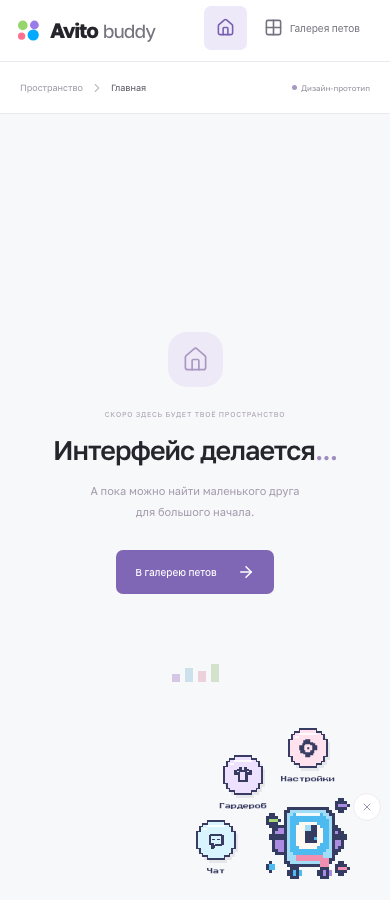
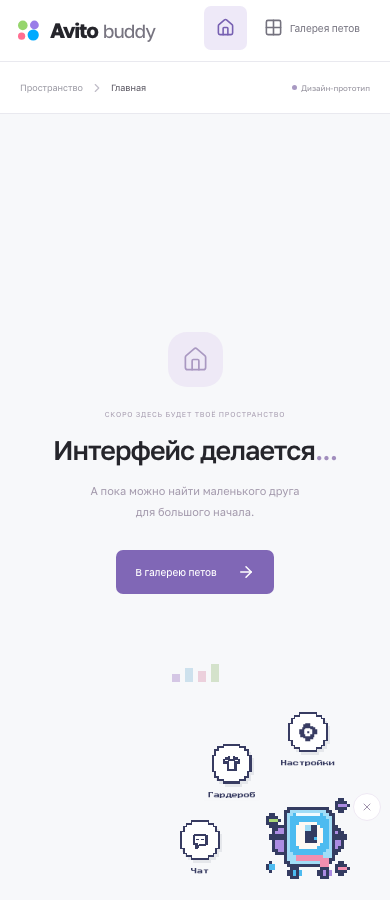
Use white action circles and increase orbit spacing

Changed region(s): [[0.4615, 0.8089, 0.6769, 0.9956], [0.7077, 0.7778, 0.8615, 0.8711]]

diff --git a/frontend/src/widgets/pet-companion/ui/companion-orbit-menu.tsx b/frontend/src/widgets/pet-companion/ui/companion-orbit-menu.tsx
@@ -4,10 +4,10 @@ import { useOrbitPlacement } from "../model/use-orbit-placement";
 import { PixelActionIcon } from "./pixel-action-icon";
 import type { CompanionAction } from "./pixel-action-icon";
 
-const actions: { id: CompanionAction; label: string; color: string }[] = [
-  { id: "chat", label: "Чат", color: "#d8f4ff" },
-  { id: "wardrobe", label: "Гардероб", color: "#eee1ff" },
-  { id: "settings", label: "Настройки", color: "#ffe2ed" },
+const actions: { id: CompanionAction; label: string }[] = [
+  { id: "chat", label: "Чат" },
+  { id: "wardrobe", label: "Гардероб" },
+  { id: "settings", label: "Настройки" },
 ];
 const outline = "M16 0h24v4h8v4h4v8h4v24h-4v8h-4v4h-8v4H16v-4H8v-4H4v-8H0V16h4V8h4V4h8z";
 
@@ -44,8 +44,7 @@ export function CompanionOrbitMenu({ anchor, position, open, onAction }: {
             <svg className="orbit-disc absolute inset-0 size-full overflow-visible [filter:drop-shadow(2px_3px_0_#383c6218)]"
               viewBox="0 0 56 56" shapeRendering="crispEdges" aria-hidden="true">
               <path d={outline} fill="#383c62" />
-              <path d={outline} transform="translate(3 3) scale(.892857)" fill={action.color} />
-              <path d="M16 7h24v3H16z M10 11h5v3h-5z" fill="#ffffff" fillOpacity=".85" />
+              <path d={outline} transform="translate(3 3) scale(.892857)" fill="#ffffff" />
             </svg>
             <span className="relative"><PixelActionIcon action={action.id} /></span>
           </span>

diff --git a/frontend/src/widgets/pet-companion/model/use-orbit-placement.ts b/frontend/src/widgets/pet-companion/model/use-orbit-placement.ts
@@ -15,7 +15,7 @@ export function useOrbitPlacement(
       const box = anchor.current.getBoundingClientRect();
       const compact = window.innerWidth <= 650;
       const size = compact ? 40 : 44;
-      const radius = compact ? 92 : 104;
+      const radius = compact ? 108 : 120;
       const cx = box.left + box.width / 2;
       const cy = box.top + box.height / 2;
       const horizontal = cx >= window.innerWidth / 2 ? -1 : 1;

diff --git a/CONTEXT.md b/CONTEXT.md
@@ -267,3 +267,10 @@
 - Пользователь сообщил, что по клику кружки не появляются. Ошибка воспроизведена: при наличии buddy-position меню получало aria-expanded=true, но содержало 0 кнопок; без сохранённой позиции — 3.
 - Причина: layout-эффект дочернего меню выполнялся до присвоения ref родительскому DOM. При восстановленных координатах x/y не менялись и повторного расчёта не было. Измерение в useOrbitPlacement перенесено в useEffect, когда ref уже доступен. Сохранённая позиция не сбрасывается.
 - Регрессионный сценарий теперь заранее сохраняет позицию и проверяет все три кнопки до/после перезагрузки. Playwright прошёл 1440/390/320 px с кликами, тапами, Enter, действиями, drag и reduced motion; отдельно подтверждены варианты с/без buddy-position. Скриншоты совпали с предыдущим визуальным результатом. Next build прошёл.
+
+
+### 2026-11-11 — Агент: Codex — Белые кружки и увеличенный отступ от пета
+
+- По запросу пользователя все три кружка получили белую заливку вместо голубой/сиреневой/розовой. Тёмный пиксельный контур, иконки, подписи и компактный размер сохранены.
+- Радиус дуги увеличен на 16 px: со 104/92 до 120/108 px (десктоп/телефон), чтобы меню было немного дальше от пета.
+- Проверки: Next build и существующий Playwright-сценарий меню на 1440/390/320 px, включая сохранённое положение, перезагрузку, жесты и края экрана; скриншоты orbit-menu-* обновлены.
